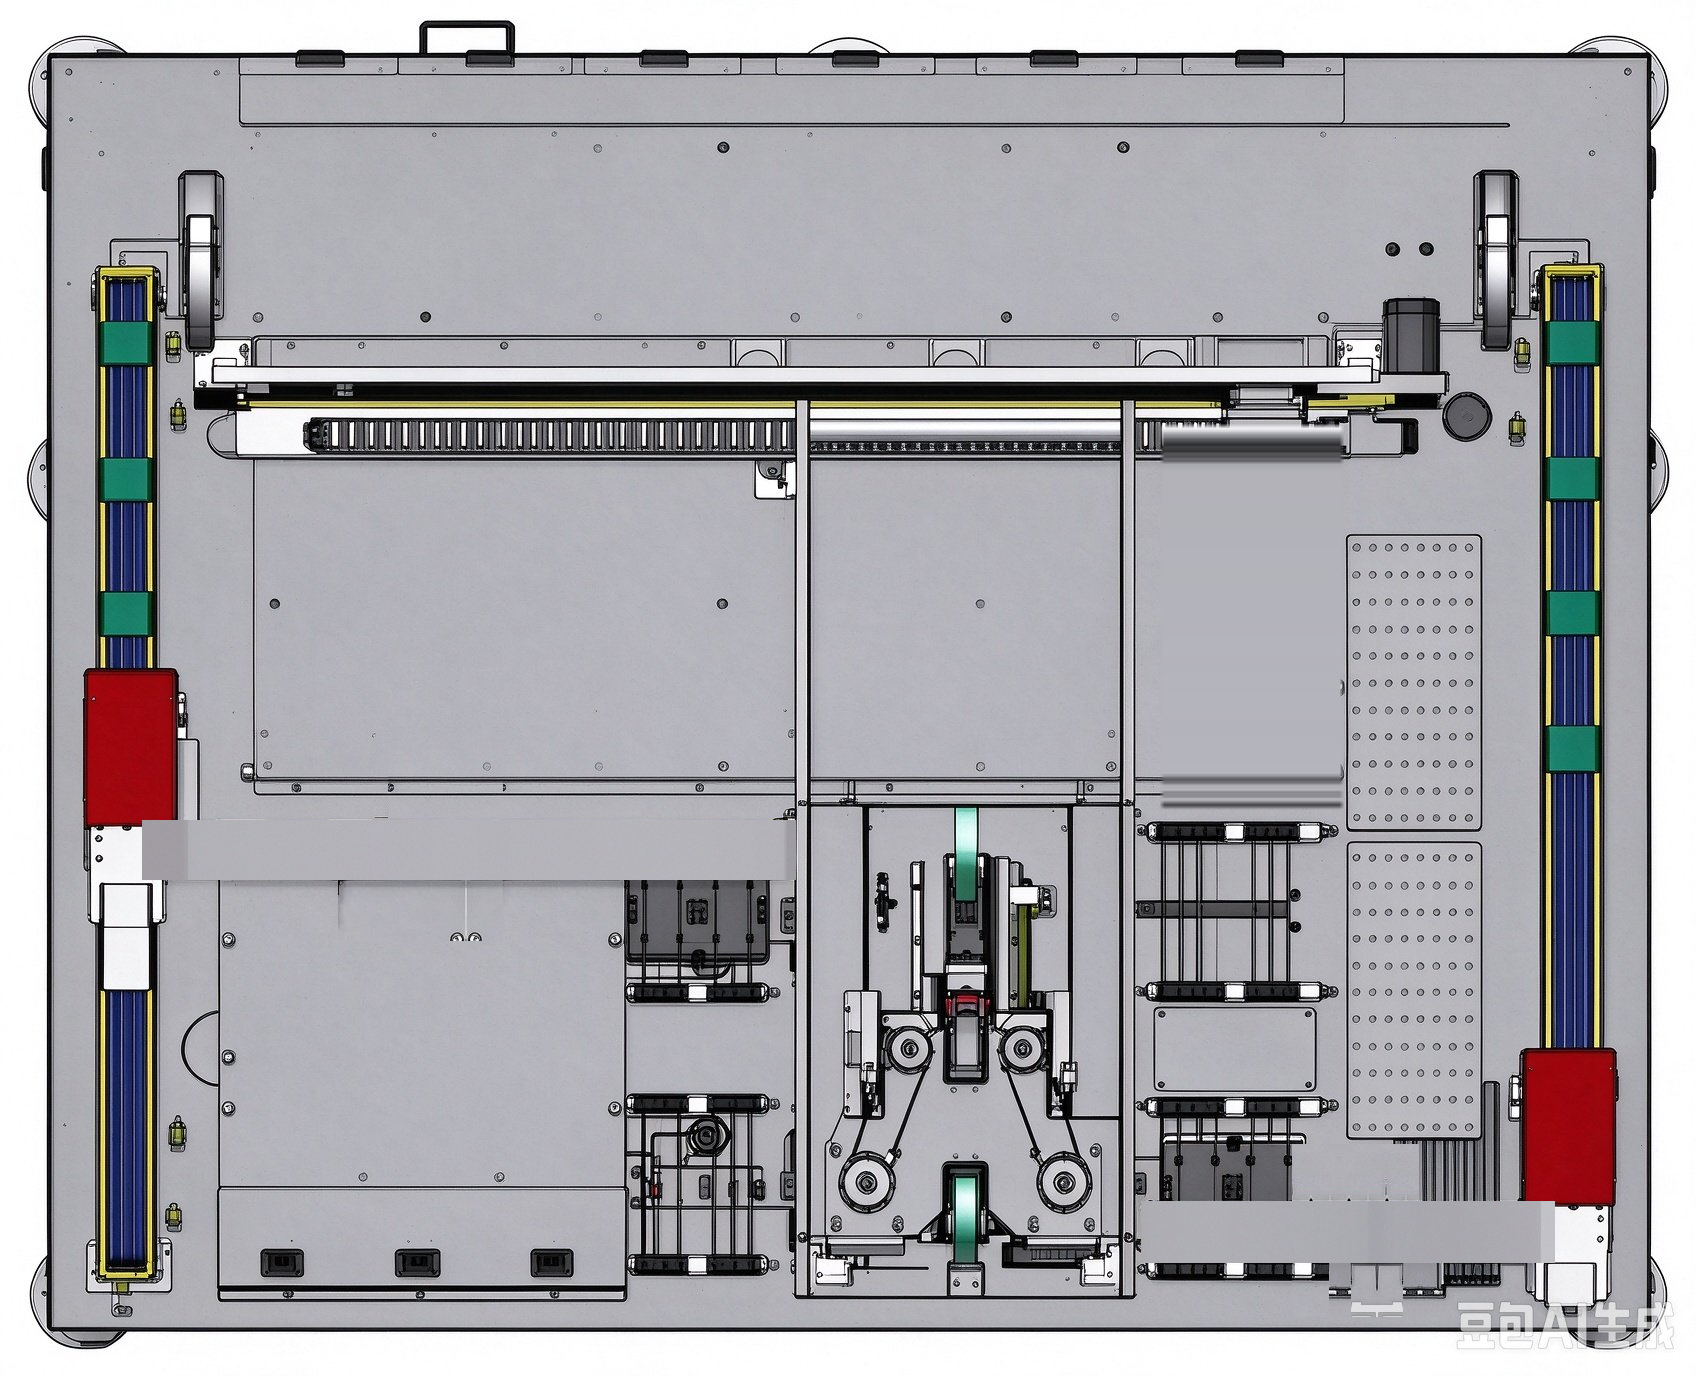
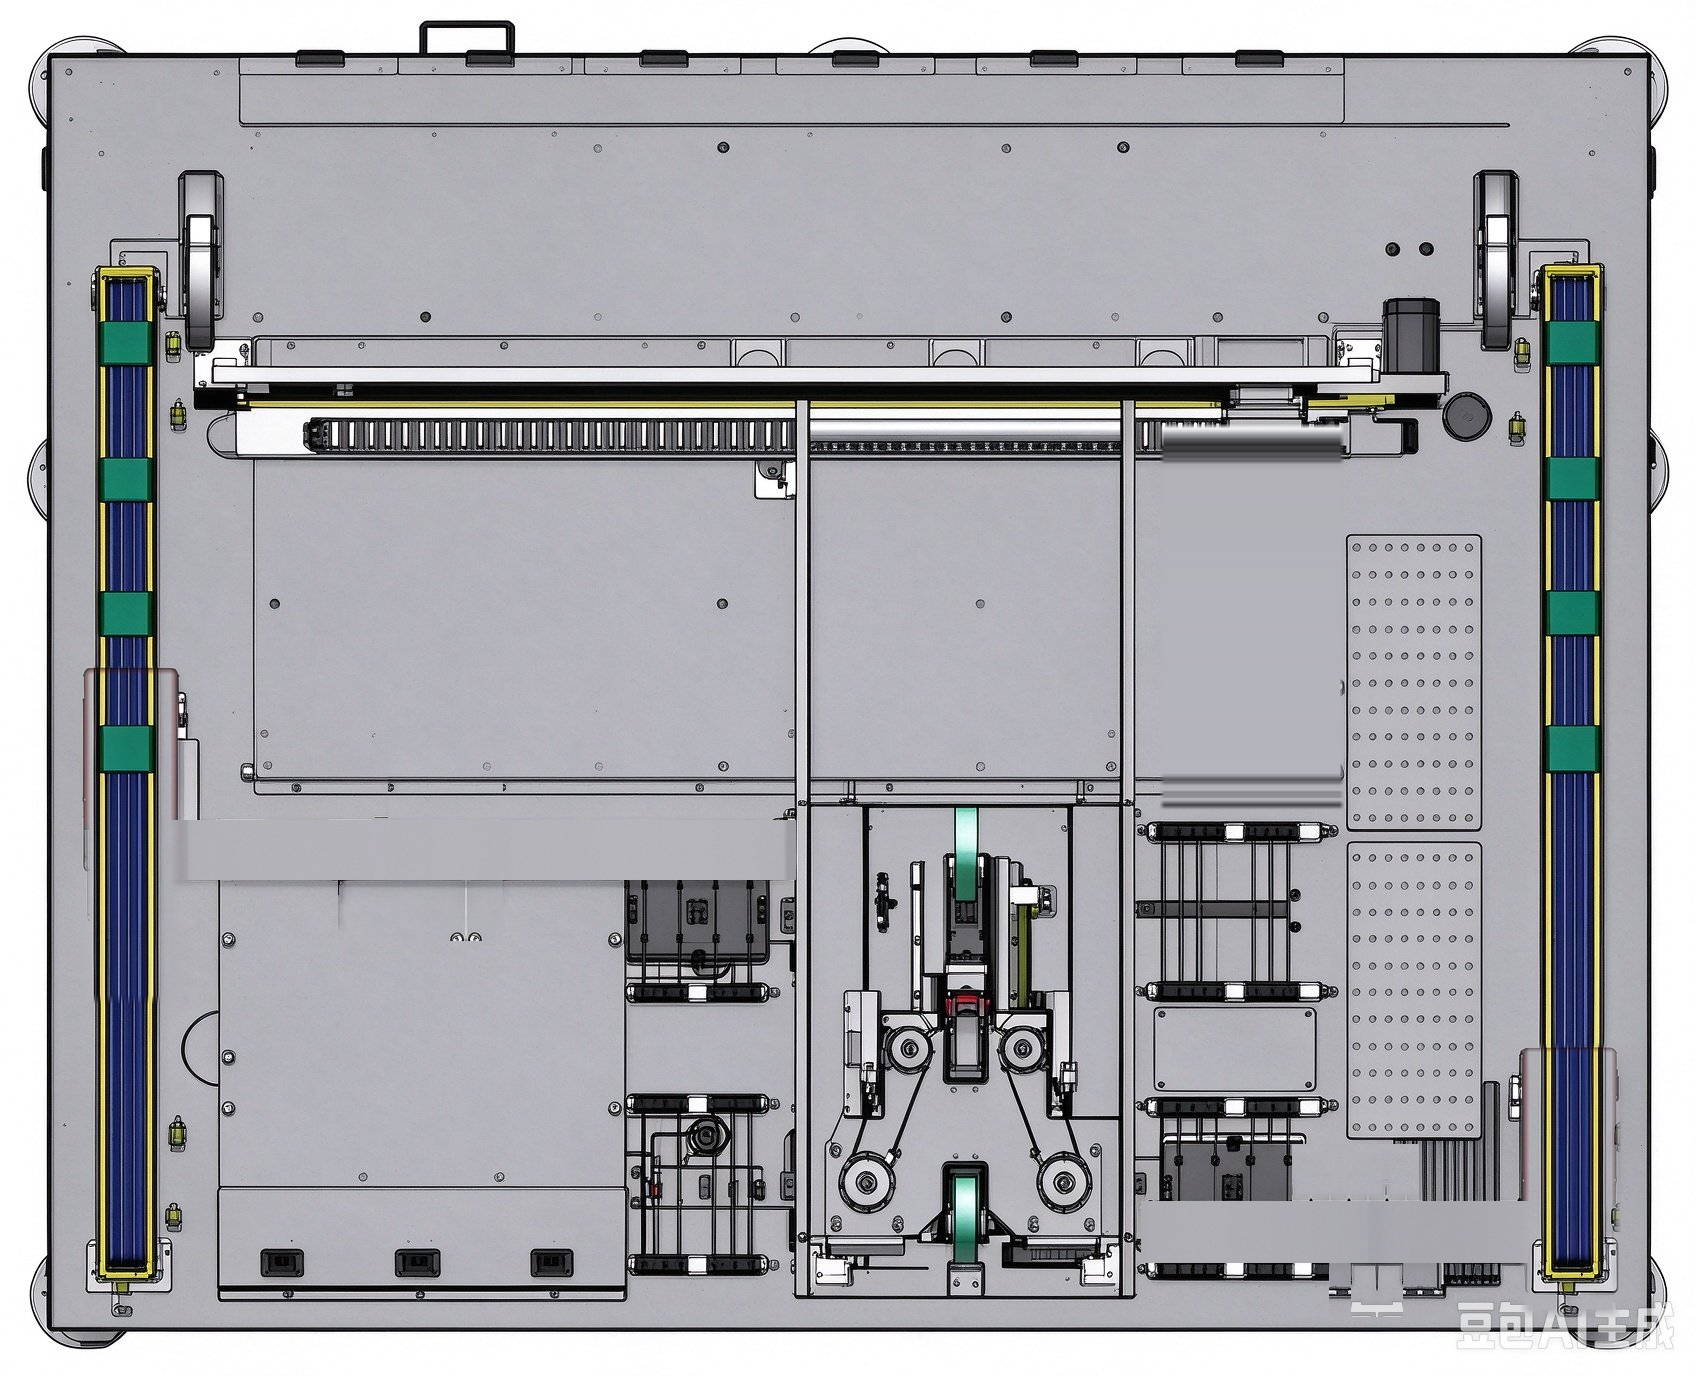
下料y行程

Changed region(s): [[0.0312, 0.4688, 0.125, 0.75], [0.875, 0.75, 0.9688, 0.9688]]

diff --git a/ViewModels/LayoutPages.cs b/ViewModels/LayoutPages.cs
@@ -1447,6 +1447,36 @@ namespace HandlerGuide.ViewModels
             {
                 // 保持深蓝方块兜底
             }
+            // ---- 下料侧「红色滑座」（真机照片抠图）：与下料横梁一起沿竖直导轨升降 ----
+            // 温启志 18719361399 · 用户指出「红色滑座是横梁的安装座，行程一放大，梁走开就会
+            // 跟滑座脱开」，要求把它从底图上抠出来、跟着梁一起走。
+            // image/unload_carriage.png = 照片框 (80,664)-(180,1004)（RGBA 101×341）：
+            // 红滑座 + 下方白色支架。底图上这一块（连导轨一起）已用**上料侧同一 y 行的导轨列**
+            // 补平 —— 两根导轨的绿滑块相位完全相同（照片 y 322/458/592/726），逐行平移
+            // 1446px 就能严丝合缝接上，补完是一条完整的导轨（含被红滑座压住的那块绿滑块）。
+            // 画布几何 = 照片 × (0.595518, 0.595203)：47.64 / 395.22 / 60.15 / 202.96。
+            const double CD_Y = 395.22;                    // 静止时滑座顶的画布 y（t = 0 与照片重合）
+            Brush cdBrush = new SolidColorBrush(Color.FromRgb(0xB0, 0x10, 0x14));
+            try
+            {
+                var cbb = new BitmapImage();
+                cbb.BeginInit();
+                cbb.UriSource = new Uri("pack://siteoforigin:,,,/image/unload_carriage.png");
+                cbb.CacheOption = BitmapCacheOption.OnLoad;
+                cbb.EndInit();
+                cbb.Freeze();
+                cdBrush = new ImageBrush(cbb) { Stretch = Stretch.Fill };
+            }
+            catch
+            {
+                // 保持红色方块兜底
+            }
+            var carriageDown = new RectItem
+            {
+                X = 47.64, Y = CD_Y, W = 60.15, H = 202.96,
+                Fill = cdBrush, Stroke = null, StrokeThickness = 0,
+            };
+            cv.Items.Add(carriageDown);
             var beamDown = new RectItem
             {
                 X = 84.56, Y = BD_Y, W = 389.47, H = 35.71,
@@ -1549,6 +1579,33 @@ namespace HandlerGuide.ViewModels
             {
                 // 保持深蓝方块兜底
             }
+            // ---- 上料侧「红色滑座」（真机照片抠图）：与上料横梁一起升降 ----
+            // 温启志 18719361399 · 与下料侧同一套做法。
+            // image/load_carriage.png = 照片框 (1519,1042)-(1621,1318)（RGBA 103×277）：
+            // 红滑座 + 下方白色支架；底图同一块已用下料侧同一 y 行的导轨列补平。
+            // 画布几何 = 照片 × (0.595518, 0.595203)：904.59 / 620.20 / 61.34 / 164.87。
+            const double CU_Y = 620.20;                    // 静止时滑座顶的画布 y
+            Brush cuBrush = new SolidColorBrush(Color.FromRgb(0xB0, 0x10, 0x14));
+            try
+            {
+                var cub = new BitmapImage();
+                cub.BeginInit();
+                cub.UriSource = new Uri("pack://siteoforigin:,,,/image/load_carriage.png");
+                cub.CacheOption = BitmapCacheOption.OnLoad;
+                cub.EndInit();
+                cub.Freeze();
+                cuBrush = new ImageBrush(cub) { Stretch = Stretch.Fill };
+            }
+            catch
+            {
+                // 保持红色方块兜底
+            }
+            var carriageUp = new RectItem
+            {
+                X = 904.59, Y = CU_Y, W = 61.34, H = 164.87,
+                Fill = cuBrush, Stroke = null, StrokeThickness = 0,
+            };
+            cv.Items.Add(carriageUp);
             var beamUp = new RectItem
             {
                 X = 679.49, Y = BU_Y, W = 246.54, H = 36.90,
@@ -1574,10 +1631,21 @@ namespace HandlerGuide.ViewModels
             // 以及右侧说明栏的页脚里（温启志 18719361399）。
 
             // ---- 逐帧动画：横移臂在导轨上往返，最近的料盘随之点亮 ----
-            // 两根蓝色横梁另有 Y（俯视图里上下）平移的行程：52 照片像素 × 0.595203 ≈ 30.95。
-            // 取「梁自身高度」（下料梁 60px / 上料梁 62px）以内，所以梁升到顶时原地露出来的
-            // 就是底图补好的那一片纯底板，不会露出没补过的区域。
-            const double BEAM_STROKE = 30.95;
+            // 温启志 18719361399 · Y 行程按**竖直导轨的实测高度**取。
+            // 用户：「这个是下料 y，固定的，高度是下料手臂的 y 移动范围」→ 整根导轨全行程。
+            //   下料导轨：照片 y 266..1277 → 画布 y 158.32..760.07，高 601.75。
+            //   骑在导轨上的滑座：照片 y 664..1004 → 画布高 202.96。
+            //   ⇒ 真正能走的行程 = 导轨高 601.75 − 滑座高 202.96 = 398.79，
+            //     滑座顶边正好走到导轨顶端 158.32、底边正好走到导轨底端 760.07，
+            //     两头都不越界 —— 这才是「整根导轨全行程」。
+            //   静止位（滑座顶 395.22）在行程内偏上：向上 236.89 / 向下 161.90。
+            // 上料按下料**同一个行程值**走（用户：「跟下料同一个行程值」），
+            // 它的静止位正好在行程下端，所以只向上走。
+            // 底图上整条导轨都在（没有需要补的区域），滑座抠走以后露出来的是导轨本体，
+            // 不会再像 30.95 那版一样「一动就露出没补过的底板」。
+            const double BEAM_STROKE = 398.79;              // 两根梁 / 两个滑座共用的 Y 行程
+            const double BD_UP = 236.89;                    // 下料：静止位 → 行程上端（向上）
+            const double BD_PHASE = 0.29701;                // = (BD_UP / BEAM_STROKE) / 2，使 t = 0 落在静止位
             long last = Environment.TickCount64;
             double t = 0;
 
@@ -1599,10 +1667,17 @@ namespace HandlerGuide.ViewModels
                 // ---- 两根蓝色横梁的 Y 平移（用户：「整根蓝色横梁上下移动」）----
                 // 相位都取成「t = 0 时为 0」⇒ 静态首屏与真机照片逐像素重合；两条梁用不同
                 // 频率（0.075 / 0.058）与一个整周期偏移，画面不会整齐划一。
-                double beamLiftD = Triangle(t * 0.075) * BEAM_STROKE;
-                beamDown.Y = BD_Y - beamLiftD;
-                double beamLiftU = Triangle(t * 0.058 + 1.0) * BEAM_STROKE;
-                beamUp.Y = BU_Y - beamLiftU;
+                // ---- 两根蓝色横梁 + 两个红滑座的 Y 平移（整组沿竖直导轨升降）----
+                // 下料：行程上下都走（静止位在行程内偏上），相位取成 t = 0 时为 0
+                //       ⇒ 静态首屏与真机照片逐像素重合。
+                // 上料：静止位就在行程下端，只向上走；频率与下料不同（0.058 / 0.075）
+                //       并加一个整周期偏移，两根梁不会整齐划一。
+                double beamLiftD = Triangle(t * 0.075 + BD_PHASE) * BEAM_STROKE - BD_UP;
+                beamDown.Y = BD_Y + beamLiftD;
+                carriageDown.Y = CD_Y + beamLiftD;
+                double beamLiftU = -Triangle(t * 0.058 + 1.0) * BEAM_STROKE;
+                beamUp.Y = BU_Y + beamLiftU;
+                carriageUp.Y = CU_Y + beamLiftU;
 
                 // ---- 下料X手臂（照片抠图）：红色滑座沿横梁左右走 = 机器 X ----
                 // 抠图只改 X；Y 跟着横梁一起升降（红滑座坐在梁上，梁升它就升）。
@@ -1610,7 +1685,7 @@ namespace HandlerGuide.ViewModels
                 // 正好是照片原位 198.9，静态首屏与真机照片逐像素重合。
                 double uaX = UA_X0 + Triangle(t * 0.11 + 0.2188) * (UA_X1 - UA_X0);
                 uaArm.X = uaX;
-                uaArm.Y = UA_Y - beamLiftD;
+                uaArm.Y = UA_Y + beamLiftD;
 
                 // 吸嘴中心离哪张出料盘**最近**，就点亮哪张（琥珀色描边）。
                 // 早先用的是「中心落在 ±8 判定窗内就点亮」，可是吸嘴组合有 70px 宽、
@@ -1636,7 +1711,7 @@ namespace HandlerGuide.ViewModels
                 // 两条臂用不同速度（0.11 / 0.085），画面不会整齐划一。
                 double u2X = U2_X0 + Triangle(t * 0.085 + 0.2605) * (U2_X1 - U2_X0);
                 u2Arm.X = u2X;
-                u2Arm.Y = U2_Y - beamLiftU;
+                u2Arm.Y = U2_Y + beamLiftU;
 
                 // 离臂头最近的料盘点亮（超过 90px 就都不亮）
                 int best = -1;
